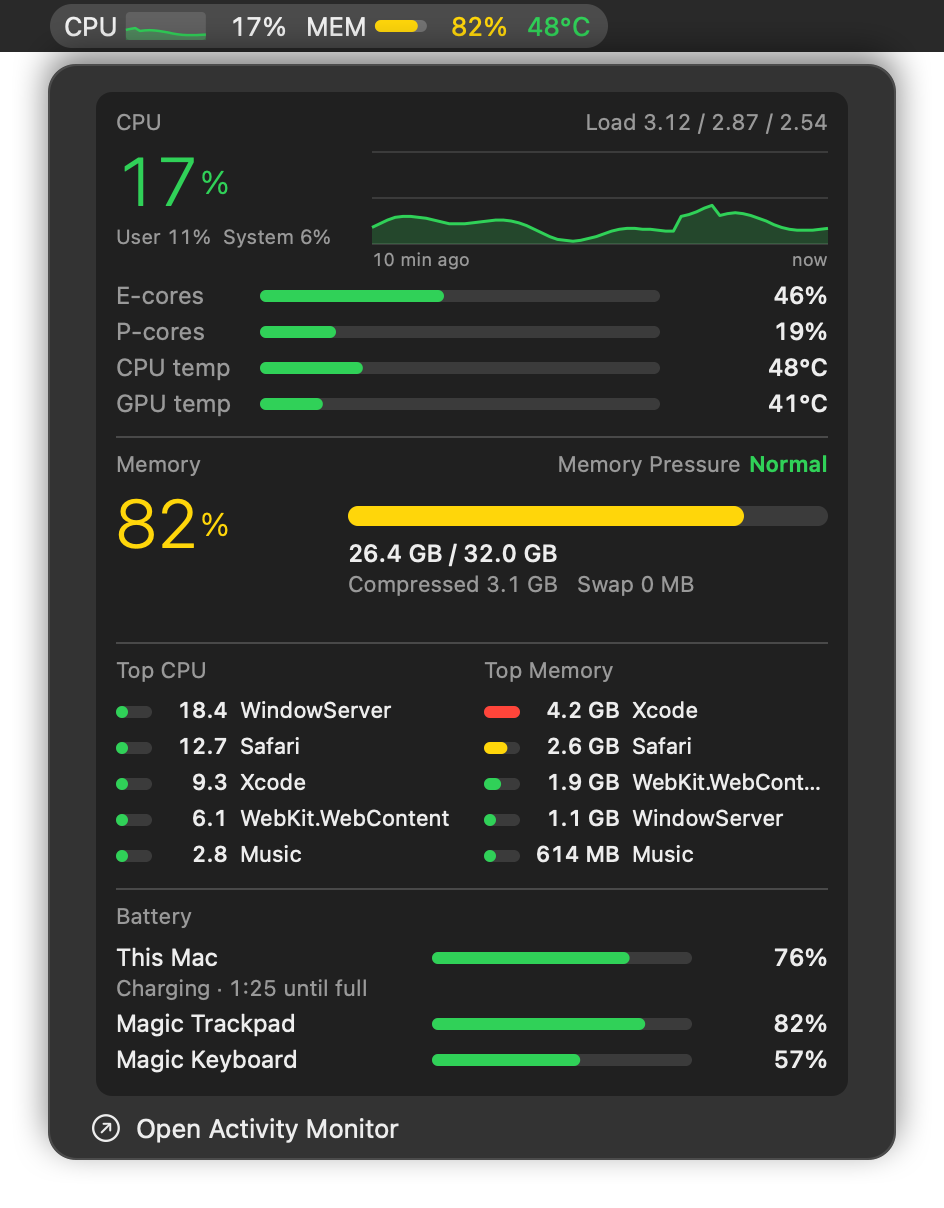
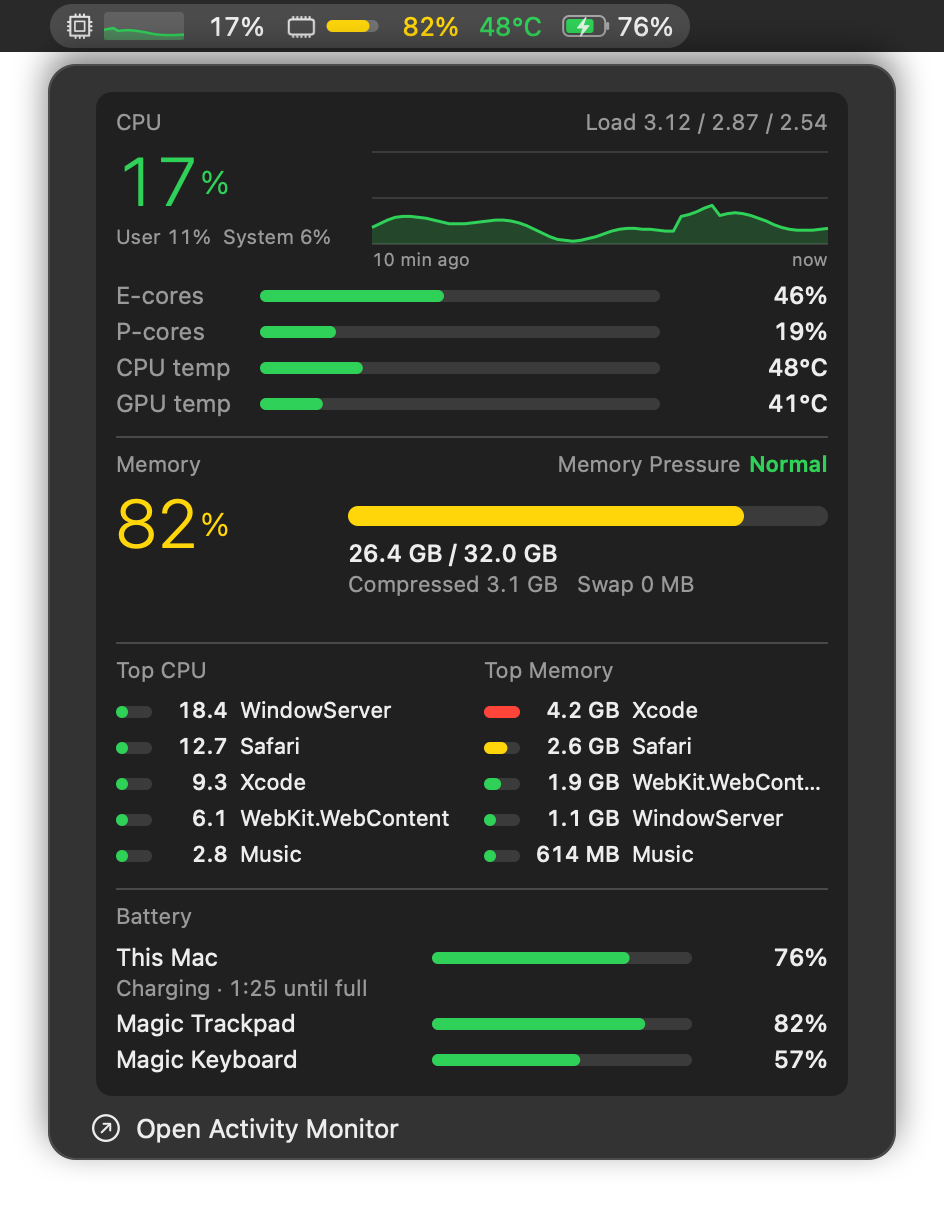
メニューバーに本体のバッテリーを出す
CPU とメモリの見出しを SF Symbols のアイコンにして幅を詰め、空いたところに
電池の形と残量を出す。電池は本体のバッテリーがある Mac (MacBook) だけに出す。

Changed region(s): [[0.215, 0.0, 0.7373, 0.0613], [0.0614, 0.0, 0.1843, 0.0306]]

diff --git a/Sources/sysmon/SystemMenuBar.swift b/Sources/sysmon/SystemMenuBar.swift
@@ -5,7 +5,11 @@ import Shared
 
 /// メニューバーの画像。
 ///
-///     CPU [直近 3 分の折れ線グラフ] 28%  MEM [横棒] 58%  48°C
+///     [cpu] [直近 3 分の折れ線グラフ] 28%  [memorychip] [横棒] 58%  48°C  [電池] 76%
+///
+/// CPU とメモリの見出しは、幅を詰めるため文字でなく SF Symbols のアイコンにしている。
+/// 電池は本体のバッテリーがあるとき (MacBook) だけ出す。Bluetooth 機器の残量は
+/// メニューのカードにだけ出し、20% を切ったときだけ警告のアイコンを足す。
 ///
 /// 明るいメニューバー用と暗いメニューバー用の 2 枚を描く (SwiftBar.menuBarImageLine)。
 /// 数字は等幅の数字で描くので、値が変わっても項目の幅が変わらない。
@@ -18,7 +22,13 @@ struct SystemMenuBar {
     private let barSize = CGSize(width: 26, height: 6)
     /// ラベルとグラフ・値の間
     private let spacing: CGFloat = 4
-    /// CPU・MEM・温度の項目の間
+    /// 見出しのアイコンの大きさ
+    private let iconPointSize: CGFloat = 13
+    /// 電池の本体 (出っ張りを除く)
+    private let batterySize = CGSize(width: 22, height: 11)
+    /// 電池の出っ張りの幅
+    private let batteryNubWidth: CGFloat = 1.5
+    /// CPU・MEM・温度・電池の項目の間
     private let itemGap: CGFloat = 10
     /// グラフに描く回数 (18 回 = 3 分)
     private let chartSamples = 18
@@ -40,17 +50,26 @@ struct SystemMenuBar {
         // 描く前に、項目を並べたときの幅を求める
         let cpuPercent = snapshot.cpu.total
         let memoryPercent = snapshot.memoryPercent
+        // アイコンが無い OS では文字に戻す
+        let cpuIcon = NSImage.symbol("cpu", pointSize: iconPointSize, color: primary)
+        let memoryIcon = NSImage.symbol("memorychip", pointSize: iconPointSize, color: primary)
         let cpuLabel = label("CPU", primary)
         let memoryLabel = label("MEM", primary)
+        let cpuHeadWidth = cpuIcon?.size.width ?? cpuLabel.size().width
+        let memoryHeadWidth = memoryIcon?.size.width ?? memoryLabel.size().width
         let cpuValue = label(threeDigits(cpuPercent) + "%", primary)
         let memoryValue = label(threeDigits(memoryPercent) + "%", level(memoryPercent, warning: 70, critical: 85))
         let tempValue = snapshot.cpu.temp.map { label(String(format: "%.0f°C", $0), level($0, warning: 70, critical: 85)) }
-        let batteryIsLow = snapshot.battery.contains { $0.percent < 20 }
+        let internalBattery = snapshot.battery.first { $0.isInternal }
+        // 残量はゆっくりしか変わらないので、ほかの値と違って 3 桁の幅にはそろえない
+        let batteryValue = internalBattery.map { label(String(format: "%.0f%%", $0.percent), primary) }
+        let bluetoothIsLow = snapshot.battery.contains { !$0.isInternal && $0.percent < 20 }
 
-        var width = cpuLabel.size().width + spacing + chartSize.width + spacing + cpuValue.size().width + itemGap
-            + memoryLabel.size().width + spacing + barSize.width + spacing + memoryValue.size().width
+        var width = cpuHeadWidth + spacing + chartSize.width + spacing + cpuValue.size().width + itemGap
+            + memoryHeadWidth + spacing + barSize.width + spacing + memoryValue.size().width
         if let tempValue { width += itemGap + tempValue.size().width }
-        if batteryIsLow { width += spacing + 16 }
+        if let batteryValue { width += itemGap + batterySize.width + batteryNubWidth + spacing + batteryValue.size().width }
+        if bluetoothIsLow { width += spacing + 16 }
         width = ceil(width) + 1
 
         return PNGImage.draw(width: width, height: height) { context in
@@ -61,8 +80,14 @@ struct SystemMenuBar {
                 text.draw(at: CGPoint(x: x, y: (height - size.height) / 2))
                 x += size.width
             }
+            func put(_ icon: NSImage?, or text: NSAttributedString) {
+                guard let icon else { return put(text) }
+                icon.drawUpright(in: CGRect(x: x, y: (height - icon.size.height) / 2,
+                                            width: icon.size.width, height: icon.size.height))
+                x += icon.size.width
+            }
 
-            put(cpuLabel)
+            put(cpuIcon, or: cpuLabel)
             x += spacing
             drawCPUChart(context, in: CGRect(x: x, y: (height - chartSize.height) / 2,
                                              width: chartSize.width, height: chartSize.height),
@@ -72,7 +97,7 @@ struct SystemMenuBar {
             put(cpuValue)
             x += itemGap
 
-            put(memoryLabel)
+            put(memoryIcon, or: memoryLabel)
             x += spacing
             let bar = CGRect(x: x, y: (height - barSize.height) / 2, width: barSize.width, height: barSize.height)
             let radius = barSize.height / 2
@@ -88,7 +113,14 @@ struct SystemMenuBar {
                 x += itemGap
                 put(tempValue)
             }
-            if batteryIsLow {
+            if let internalBattery, let batteryValue {
+                x += itemGap
+                drawBattery(context, internalBattery, at: x, outline: primary,
+                            fill: internalBattery.percent < 20 ? red : internalBattery.percent < 40 ? yellow : green)
+                x += batterySize.width + batteryNubWidth + spacing
+                put(batteryValue)
+            }
+            if bluetoothIsLow {
                 x += spacing
                 if let icon = NSImage.symbol("exclamationmark.triangle.fill", pointSize: 12, color: red) {
                     icon.drawUpright(in: CGRect(x: x, y: (height - icon.size.height) / 2,
@@ -108,6 +140,30 @@ struct SystemMenuBar {
                     y: box.maxY - (box.height - 1) * CGFloat(min(history[i], 100) / 100) - 0.5)
         }
         context.drawFilledLine(through: points, bottom: box.maxY, color: color, fillAlpha: 0.35, lineWidth: 1.25)
+    }
+
+    /// 電池の形。枠の中を残量の割合だけ塗り、電源につながっていれば稲妻を重ねる。
+    private func drawBattery(_ context: CGContext, _ battery: Battery, at x: CGFloat, outline: NSColor, fill: NSColor) {
+        let body = CGRect(x: x, y: (height - batterySize.height) / 2,
+                          width: batterySize.width, height: batterySize.height)
+        context.setStrokeColor(outline.withAlphaComponent(0.5).cgColor)
+        context.setLineWidth(1)
+        context.addPath(CGPath(roundedRect: body.insetBy(dx: 0.5, dy: 0.5), cornerWidth: 3, cornerHeight: 3, transform: nil))
+        context.strokePath()
+        context.fillRoundedRect(CGRect(x: body.maxX, y: body.midY - 2, width: batteryNubWidth, height: 4),
+                                radius: 0.75, color: outline.withAlphaComponent(0.5))
+
+        let inner = body.insetBy(dx: 2, dy: 2)
+        let level = CGFloat(min(max(battery.percent, 0), 100) / 100)
+        if level > 0 {
+            context.fillRoundedRect(CGRect(x: inner.minX, y: inner.minY,
+                                           width: max(1.5, inner.width * level), height: inner.height),
+                                    radius: 1.5, color: fill)
+        }
+        if battery.external == true,
+           let bolt = NSImage.symbol("bolt.fill", pointSize: 9, color: outline) {
+            bolt.drawUpright(centeredAt: CGPoint(x: body.midX, y: body.midY))
+        }
     }
 
     /// 3 桁の幅にそろえた数。桁が少ないときは、数字 1 文字分の空白 (U+2007 figure space)

diff --git a/README.ja.md b/README.ja.md
@@ -7,7 +7,7 @@
 | プラグイン | メニューバー | カード |
 |---|---|---|
 | `nowplaying` | Music.app で再生中の曲のアートワークと曲名 | アートワーク・曲名・アーティスト・アルバム・再生位置と、一時停止・次の曲の項目 |
-| `sysmon` | CPU の推移と使用率、メモリ、温度 | CPU (使用率・過去 10 分の推移・E / P コア・温度)、メモリ、CPU とメモリを使っているプロセスの上位、バッテリー (MacBook では本体の残量と、充電中か・残り時間・満充電までの時間。Bluetooth 機器の残量も) |
+| `sysmon` | CPU の推移と使用率、メモリ、温度、本体のバッテリー (MacBook) | CPU (使用率・過去 10 分の推移・E / P コア・温度)、メモリ、CPU とメモリを使っているプロセスの上位、バッテリー (MacBook では本体の残量と、充電中か・残り時間・満充電までの時間。Bluetooth 機器の残量も) |
 | `weather` | 今日の天気のアイコン、現在の気温、降水確率 | 気象庁のデータによる現在の観測値、今後 24 時間の気温のグラフ、地方の予報、週間予報 |
 
 カードは小さな Swift のプログラムが描き、画像として SwiftBar に渡します。ライトモードとダークモードで別の色を使います。表示は macOS の言語の設定に合わせて、日本語か英語になります。

diff --git a/README.md b/README.md
@@ -7,7 +7,7 @@
 | Plugin | Menu bar | Card |
 |---|---|---|
 | `nowplaying` | Artwork and title of the track playing in Music.app | Artwork, title, artist, album, and playback position, with play/pause and next-track items |
-| `sysmon` | CPU history and usage, memory, and temperature | CPU (usage, last 10 minutes, E/P cores, temperatures), memory, top processes by CPU and memory, and batteries: the Mac's own battery (on a MacBook, with charging status and time remaining or until full) and Bluetooth devices |
+| `sysmon` | CPU history and usage, memory, temperature, and the Mac's own battery (on a MacBook) | CPU (usage, last 10 minutes, E/P cores, temperatures), memory, top processes by CPU and memory, and batteries: the Mac's own battery (on a MacBook, with charging status and time remaining or until full) and Bluetooth devices |
 | `weather` | Today's weather icon, current temperature, and chance of rain | Current observations, a 24-hour temperature graph, the regional forecast, and the weekly forecast from the Japan Meteorological Agency (JMA) |
 
 Each card is drawn by a small Swift program and passed to SwiftBar as an image, with separate colors for light and dark appearances. The plugins show English or Japanese text, following the language setting of macOS.
